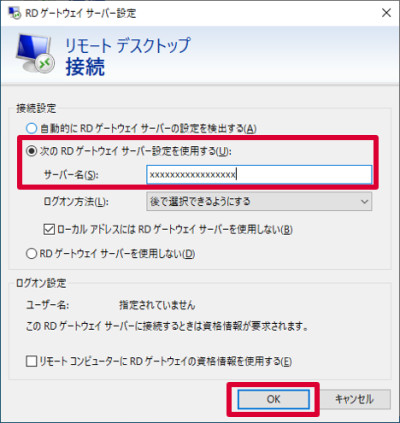
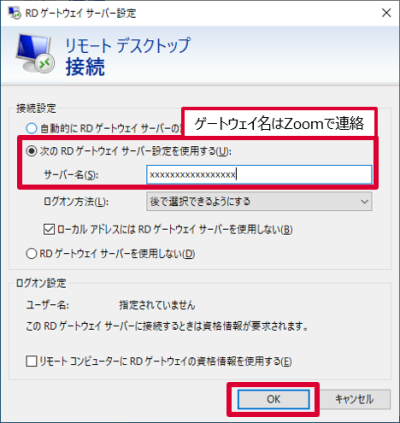
フィードバック

Changed region(s): [[0.45, 0.2459, 0.96, 0.3381]]

diff --git a/doc/connection/connection.md b/doc/connection/connection.md
@@ -32,6 +32,7 @@
   ![証明書6](img/cert6.png)
 1. 「OK」をクリックします。  
   ![証明書7](img/cert7.png)
+  ![証明書8](img/cert8.png)
 
 ### リモートデスクトップする(windows)
 
@@ -53,7 +54,7 @@
   「サーバー名」を以下の通り入力し、「OK」をクリックします。  
     |項目|入力|
     |-|-|
-    |サーバー名|__※ゲートウェイ名はZoomのチャットで連絡します。__|  
+    |サーバー名|__※サーバー名(=ゲートウェイ名)はZoomのチャットで連絡します。__|  
 
     ![リモートデスクトップ接続2](img/remote4.png)
 
@@ -61,7 +62,7 @@
   「コンピューター」と「ユーザー名」を以下の通り入力し、「接続」をクリックします。  
     |項目|入力|
     |-|-|
-    |コンピューター|__※開発PC名はZoomのチャットで連絡します。__|
+    |コンピューター|__※コンピューター名(=開発PC名)はZoomのチャットで連絡します。<br/>チーム毎に異なるので注意__|
     |ユーザー名|__※ユーザ名はZoomのチャットで連絡します。__|  
 
     ![リモートデスクトップ接続2](img/remote5.png)
@@ -74,6 +75,7 @@
     |パスワード|__※パスワードはZoomのチャットで連絡します。__|  
 
     ![リモートデスクトップ接続3](img/remote6.png)  
+    ![リモートデスクトップ接続3](img/remote6-2.png)  
 
 2. これで開発用PCにログインできました。  
    接続の練習はここまでです。  
@@ -127,8 +129,8 @@
    「Add」をクリックします。  
     |項目|入力|
     |-|-|
-    |Username|__※ログインユーザ名はZoomのチャットで連絡します。__|
-    |Password|__※パスワードはZoomのチャットで連絡します。__|
+    |Username|__※Username(=ユーザ名)はZoomのチャットで連絡します。__|
+    |Password|__※Password(=パスワード)はZoomのチャットで連絡します。__|
     |Friendly name|dc intern|  
 
     ![Macリモートデスクトップ接続](img/mac_remote_g3.png)
@@ -138,7 +140,7 @@
 
     |項目|入力|
     |-|-|
-    |Gateway name|__※ゲートウェイ名はZoomのチャットで連絡します。__|
+    |Gateway name|__※Gateway name(=ゲートウェイ名)はZoomのチャットで連絡します。__|
     |Friendly name|dc intern|
     |User account|dc intern|
 
@@ -149,7 +151,7 @@
 
     |項目|入力|
     |-|-|
-    |PC name|__※開発PC名はZoomのチャットで連絡します。__|
+    |PC name|__※PC name(=開発PC名)はZoomのチャットで連絡します。<br />チーム毎に異なるので注意__|
     |User account|dc intern|
     |Friendly name|dc intern|
     |Gateway|dc intern|
